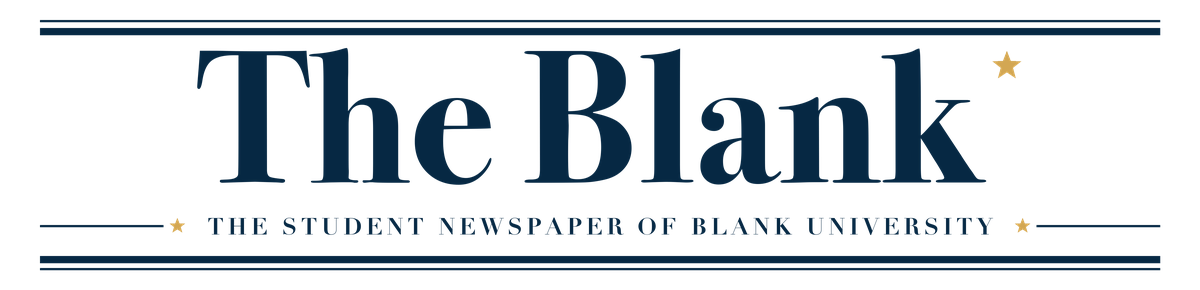
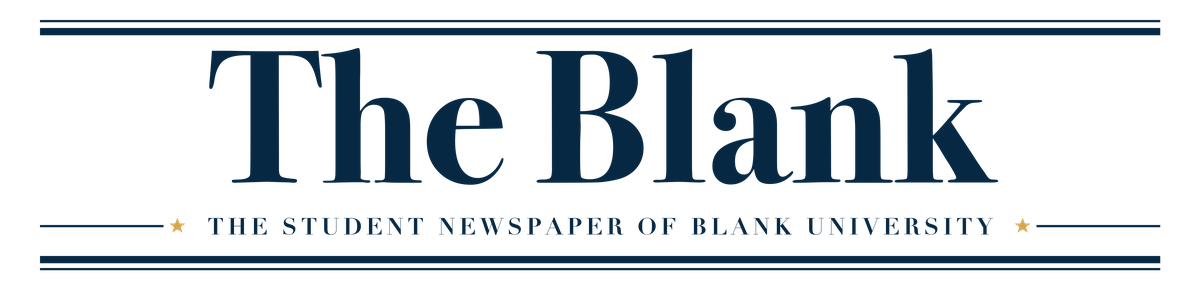
Masthead: remove the gold star beside the title

Changed region(s): [[0.1542, 0.1552, 0.8325, 0.6517], [0.8325, 0.1862, 0.8633, 0.2793]]

diff --git a/tools/make-the-blank-masthead.py b/tools/make-the-blank-masthead.py
@@ -42,10 +42,7 @@ rule(20, 2); rule(28, 7)
 title = ImageFont.truetype(BODONI, 190 * S, index=2)
 tw = title.getlength("The Blank") / S
 top = title.getbbox("The Blank")[1] / S
-d.text(((W - tw) / 2 * S - 12 * S, (48 - top) * S), "The Blank", font=title, fill=NAVY)
-# A gold star at the top of the k, echoing the star over the U in the university logo
-k_right = (W + tw) / 2
-star(k_right + 16, 66, 15)
+d.text(((W - tw) / 2 * S, (48 - top) * S), "The Blank", font=title, fill=NAVY)
 
 # Tagline between two short rules with stars
 tag = ImageFont.truetype(DIDOT, 23 * S, index=2)

diff --git a/README.md b/README.md
@@ -32,7 +32,7 @@ A game takes about 45 to 75 minutes. Progress can be saved from the sidebar (Sav
 | `engine/sources.py`, `engine/sources.json`, `scenarios/<id>/sources.json` | Where the sources of truth are in Google Drive, and how the build updates the repository's copies from downloads of them. |
 | `engine/landing.html` | The landing page. The build fills in the list of scenarios. |
 | `engine/head.html`, `engine/favicon.svg`, `engine/favicon-32.png`, `engine/apple-touch-icon.png` | The site icon (a magnifying glass) and the `<head>` lines that link it. The SVG draws the glass in rust, or a lighter rust when the browser is in dark mode. The PNGs are renders of it: the 32 px one in rust; the 180 px iOS icon in the lighter rust with a margin, because iOS shows transparency as black and rounds the corners. |
-| `engine/shared-assets/` | Images more than one scenario may use: `blank-university-logo.png` (Blank University's logo, with the white book pages made transparent so it sits on the game's paper colour) and `the-blank-masthead.png` (the masthead of *The Blank*, Blank University's student newspaper, made by `tools/make-the-blank-masthead.py`; not shown in the game yet). |
+| `engine/shared-assets/` | Images more than one scenario may use: `blank-university-logo.png` (Blank University's logo, with the white book pages made transparent so it sits on the game's paper colour) and `the-blank-masthead.png` (the masthead of *The Blank*, Blank University's student newspaper, made by `tools/make-the-blank-masthead.py`; it will head the background story, not shown in the game yet). |
 | `scenarios/<id>/… – Response Matrix.xlsx` | A read-only copy of the scenario's Response Matrix (a Google Sheet in Drive), which the game is built from: the scenario's text for each passage (the Hook, the endings …), the mystery, the final-answer form, witnesses, questions, every answer, Clues, Major Clues, Red Herrings and follow-ups. |
 | `scenarios/<id>/… – Scenario Packet.docx` | A read-only copy of the designer's scenario packet (a Google Doc in Drive): the same scenario written up for people, plus the timeline, the positions and the hidden payoff. Spoilers throughout. |
 | `scenarios/<id>/assets/` | The portraits and campus map the game shows, and the scenario's own logo if it has one. |
